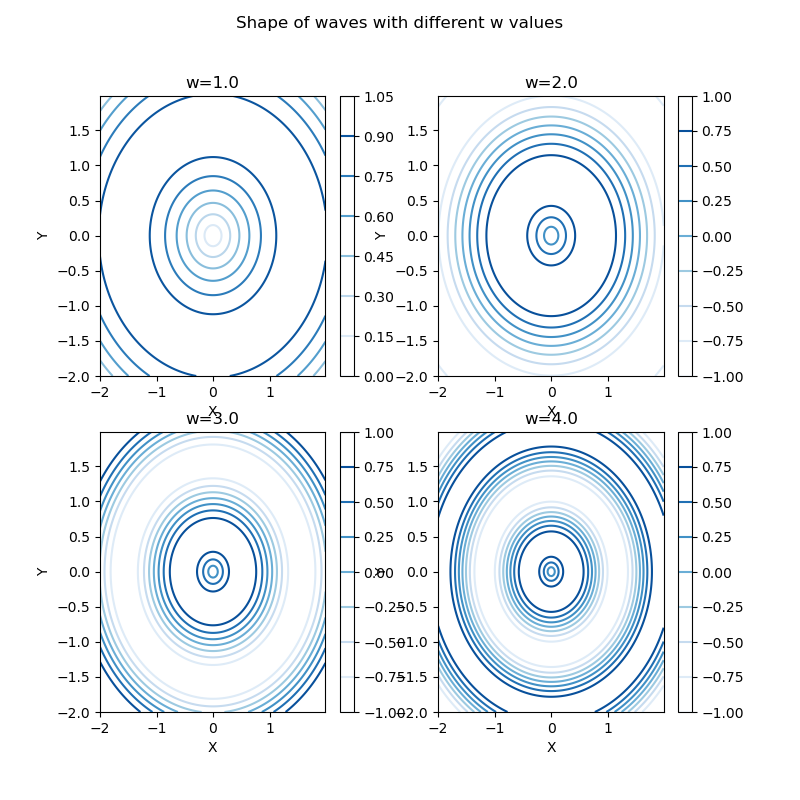
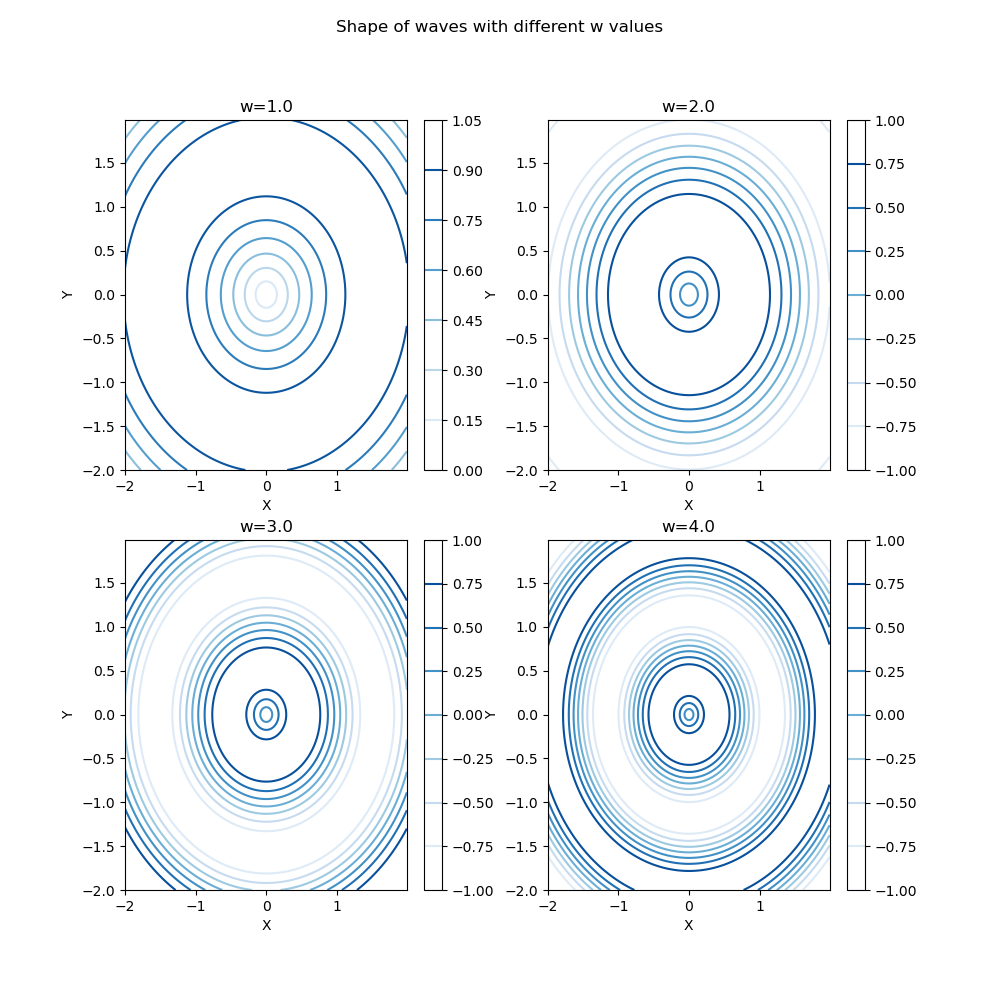
change of plot size

diff --git a/plot_wave.py b/plot_wave.py
@@ -38,7 +38,7 @@ X = Y = np.arange(-2, 2, seed) # defining a flat range and generating a grid mes
 X, Y = np.meshgrid(X, Y)
 Z1 = np.sqrt(X**2 + Y**2) # the 'basic' number
 
-fig2, ax2 = plt.subplots(2, 2, figsize=(8,8))
+fig2, ax2 = plt.subplots(2, 2, figsize=(10,10))
 
 def contour_map(ax, w):
     """
